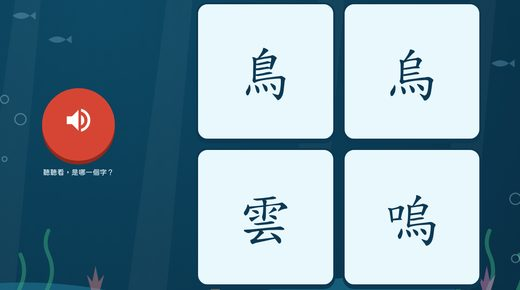
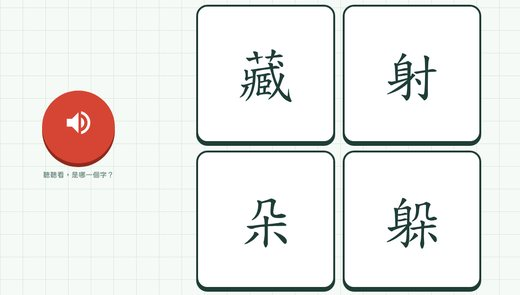
目標卡片的截圖改用不套主題的畫面
Claude-Session: https://claude.ai/code/session_01GKhFpU79AWw52YeMv5qypS

diff --git a/tools/literacy/index.html b/tools/literacy/index.html
@@ -15,11 +15,11 @@
 <link rel="preconnect" href="https://fonts.gstatic.com" crossorigin>
 <link rel="stylesheet" href="https://fonts.googleapis.com/css2?family=Huninn&display=swap">
 <!-- 標準楷書：全字庫正楷體（見 docs/scripts/make_kai.py）；不用霞鶩文楷，因為它的字形和教育部標準楷書不同 -->
-<link rel="stylesheet" href="../../shared/fonts/tw-kai.css?v=2026-10-26z12">
+<link rel="stylesheet" href="../../shared/fonts/tw-kai.css?v=2026-10-26z13">
 <!-- 平台共用的主題外觀、頭像、貼紙樣式 -->
-<link rel="stylesheet" href="../../shared/themes.css?v=2026-10-26z12">
+<link rel="stylesheet" href="../../shared/themes.css?v=2026-10-26z13">
 <!-- 注音字型（3-4）：語詞、句子提示和練習的選項加注音；畫面用到注音時才會下載 -->
-<link rel="stylesheet" href="../../shared/fonts/bpmf-kai.css?v=2026-10-26z12">
+<link rel="stylesheet" href="../../shared/fonts/bpmf-kai.css?v=2026-10-26z13">
 <style>
 /* 版面：沿用生字賓果的生字簿方格紙。
    設定畫面：左邊六個步驟，右邊固定的「本次評量」摘要；評量設定、教學日期、學生名單、作答紀錄放在彈出面板。
@@ -1125,32 +1125,32 @@ table.rec th,table.rec td{border-bottom:1px solid var(--grid);padding:6px 8px;te
 <!-- 每個檔案後面的 ?v=日期 是版本號：改了任何 .js、.css 檔，就把這頁所有的 ?v= 一起改成當天日期（用「全部取代」；同一天改第二次就在日期後面加 b、c）。
      這樣老師的瀏覽器才會下載新檔案，不會新網頁配到舊程式（例如按「下一步」沒反應）。 -->
 <!-- 生字資料：平台共用的教材資料（shared/lessons.js） -->
-<script src="../../shared/lessons.js?v=2026-10-26z12"></script>
+<script src="../../shared/lessons.js?v=2026-10-26z13"></script>
 <!-- 注音讀音表（shared/bpmf.js）：語詞、例句裡的破音字該念哪一個音 -->
-<script src="../../shared/bpmf.js?v=2026-10-26z12"></script>
+<script src="../../shared/bpmf.js?v=2026-10-26z13"></script>
 <!-- 字頻：教育部字頻總表（shared/freq.js），練習的常用字、字頻優先、老師專區高字頻生字會用到 -->
-<script src="../../shared/freq.js?v=2026-10-26z12"></script>
+<script src="../../shared/freq.js?v=2026-10-26z13"></script>
 <!-- 自動部件拆解（shared/parts.js）：部件提示在 lessons.js 的 PARTS 沒有這個字時才用 -->
-<script src="../../shared/parts.js?v=2026-10-26z12"></script>
+<script src="../../shared/parts.js?v=2026-10-26z13"></script>
 <!-- 共用小工具（課本排序與名稱、語詞、部件查詢、按匯出時才載入 Excel 元件），識字評量與備課分析共用 -->
-<script src="../../shared/common.js?v=2026-10-26z12"></script>
+<script src="../../shared/common.js?v=2026-10-26z13"></script>
 <!-- 平台共用：主題與貼紙、每位學生的收藏與頭像 -->
-<script src="../../shared/sticker-art.js?v=2026-10-26z12"></script>
-<script src="../../shared/themes.js?v=2026-10-26z12"></script>
-<script src="../../shared/rewards.js?v=2026-10-26z12"></script>
+<script src="../../shared/sticker-art.js?v=2026-10-26z13"></script>
+<script src="../../shared/themes.js?v=2026-10-26z13"></script>
+<script src="../../shared/rewards.js?v=2026-10-26z13"></script>
 <!-- 程式本體：分成八個檔案，順序不能換（說明見 app.js 開頭） -->
-<script src="data.js?v=2026-10-26z12"></script>
-<script src="setup.js?v=2026-10-26z12"></script>
-<script src="records.js?v=2026-10-26z12"></script>
-<script src="wordsets.js?v=2026-10-26z12"></script>
-<script src="play.js?v=2026-10-26z12"></script>
-<script src="collect.js?v=2026-10-26z12"></script>
-<script src="gacha.js?v=2026-10-26z12"></script>
-<script src="scenes.js?v=2026-10-26z12"></script>
+<script src="data.js?v=2026-10-26z13"></script>
+<script src="setup.js?v=2026-10-26z13"></script>
+<script src="records.js?v=2026-10-26z13"></script>
+<script src="wordsets.js?v=2026-10-26z13"></script>
+<script src="play.js?v=2026-10-26z13"></script>
+<script src="collect.js?v=2026-10-26z13"></script>
+<script src="gacha.js?v=2026-10-26z13"></script>
+<script src="scenes.js?v=2026-10-26z13"></script>
 <!-- 老師專區、進階分析：平板作答（網址 #t）用不到，不下載，省約 30 KB（2026-10-24 R4a）。
      用 document.write 是為了讓電腦上的載入順序和以前完全一樣 -->
-<script>if(!/^#t/.test(location.hash)) document.write('<script src="teacher.js?v=2026-10-26z12"><\/script><script src="pivot.js?v=2026-10-26z12"><\/script>');</script>
-<script src="tablet.js?v=2026-10-26z12"></script>
-<script src="app.js?v=2026-10-26z12"></script>
+<script>if(!/^#t/.test(location.hash)) document.write('<script src="teacher.js?v=2026-10-26z13"><\/script><script src="pivot.js?v=2026-10-26z13"><\/script>');</script>
+<script src="tablet.js?v=2026-10-26z13"></script>
+<script src="app.js?v=2026-10-26z13"></script>
 </body>
 </html>

diff --git a/tools/prep/index.html b/tools/prep/index.html
@@ -9,7 +9,7 @@
 <link rel="preconnect" href="https://fonts.gstatic.com" crossorigin>
 <link rel="stylesheet" href="https://fonts.googleapis.com/css2?family=Huninn&display=swap">
 <!-- 標準楷書：全字庫正楷體（見 docs/scripts/make_kai.py）；不用霞鶩文楷，因為它的字形和教育部標準楷書不同 -->
-<link rel="stylesheet" href="../../shared/fonts/tw-kai.css?v=2026-10-26z12">
+<link rel="stylesheet" href="../../shared/fonts/tw-kai.css?v=2026-10-26z13">
 <style>
 /* 版面：沿用識字評量的生字簿方格紙。
    上面選範圍與分析方式，下面是三個重點數字和結果表（部件排行／生字一覽／字頻）。 */
@@ -143,11 +143,11 @@ tr.auto td{background:var(--amber-bg)}
 </div>
 
 <!-- ?v=日期 是版本號：改了任何 .js 檔，就把這頁所有的 ?v= 一起改成當天日期（同一天改第二次加 b、c），老師的瀏覽器才會下載新檔案 -->
-<script src="../../shared/lessons.js?v=2026-10-26z12"></script>
-<script src="../../shared/parts.js?v=2026-10-26z12"></script>
-<script src="../../shared/freq.js?v=2026-10-26z12"></script>
+<script src="../../shared/lessons.js?v=2026-10-26z13"></script>
+<script src="../../shared/parts.js?v=2026-10-26z13"></script>
+<script src="../../shared/freq.js?v=2026-10-26z13"></script>
 <!-- 共用小工具（課本排序與名稱、語詞、部件查詢、按匯出時才載入 Excel 元件），識字評量與備課分析共用 -->
-<script src="../../shared/common.js?v=2026-10-26z12"></script>
-<script src="prep.js?v=2026-10-26z12"></script>
+<script src="../../shared/common.js?v=2026-10-26z13"></script>
+<script src="prep.js?v=2026-10-26z13"></script>
 </body>
 </html>

diff --git a/docs/scripts/check.js b/docs/scripts/check.js
@@ -164,7 +164,7 @@ try {
 
 /* ---------- 4. 學生資料 ---------- */
 const ALLOW_DATA = ['docs/materials/material-review.xlsx', 'docs/materials/parts-table.xlsx'];   /* 教材資料，沒有學生資料 */
-const ALLOW_IMAGES = ['tools/literacy/img/goal-3.jpg', 'tools/literacy/img/goal-4-1.jpg'];   /* 選評量目標畫面的遊戲截圖（2026-10-25 維護者要求）；用假資料截的，已裁掉學生代號和頭像 */
+const ALLOW_IMAGES = ['tools/literacy/img/goal-3.jpg', 'tools/literacy/img/goal-4-1.jpg'];   /* 選評量目標畫面的遊戲截圖（2026-10-25 維護者要求）；用假資料截的、不套主題背景，已裁掉學生代號和頭像 */
 for (const f of files) {
   const ext = path.extname(f).toLowerCase();
   if (ALLOW_IMAGES.includes(f)) continue;

diff --git a/about.html b/about.html
@@ -9,7 +9,7 @@
 <link rel="preconnect" href="https://fonts.gstatic.com" crossorigin>
 <link rel="stylesheet" href="https://fonts.googleapis.com/css2?family=Huninn&display=swap">
 <!-- 標準楷書：全字庫正楷體（見 docs/scripts/make_kai.py）；不用霞鶩文楷，因為它的字形和教育部標準楷書不同 -->
-<link rel="stylesheet" href="shared/fonts/tw-kai.css?v=2026-10-26z12">
+<link rel="stylesheet" href="shared/fonts/tw-kai.css?v=2026-10-26z13">
 <style>
 /* 關於我們：平台介紹、資料來源與出處。內容對應 docs/materials/data-sources.md「資料來源與授權清單」
    和規格書「資料來源、授權與隱私」表一；加入新的外部資料時，這一頁要一起改。

diff --git a/privacy.html b/privacy.html
@@ -9,7 +9,7 @@
 <link rel="preconnect" href="https://fonts.gstatic.com" crossorigin>
 <link rel="stylesheet" href="https://fonts.googleapis.com/css2?family=Huninn&display=swap">
 <!-- 標準楷書：全字庫正楷體（見 docs/scripts/make_kai.py）；不用霞鶩文楷，因為它的字形和教育部標準楷書不同 -->
-<link rel="stylesheet" href="shared/fonts/tw-kai.css?v=2026-10-26z12">
+<link rel="stylesheet" href="shared/fonts/tw-kai.css?v=2026-10-26z13">
 <style>
 /* 資料與隱私說明：給學校、家長與使用的老師看。內容對應規格書「資料來源、授權與隱私」表二。
    功能改變（新增會存學生資料的功能、新的對外連線）時，這一頁要一起改。 */

diff --git a/index.html b/index.html
@@ -9,7 +9,7 @@
 <link rel="preconnect" href="https://fonts.gstatic.com" crossorigin>
 <link rel="stylesheet" href="https://fonts.googleapis.com/css2?family=Huninn&display=swap">
 <!-- 標準楷書：全字庫正楷體（見 docs/scripts/make_kai.py）；不用霞鶩文楷，因為它的字形和教育部標準楷書不同 -->
-<link rel="stylesheet" href="shared/fonts/tw-kai.css?v=2026-10-26z12">
+<link rel="stylesheet" href="shared/fonts/tw-kai.css?v=2026-10-26z13">
 <style>
 /* 平台首頁：配色沿用原本生字賓果的方格紙風格 */
 :root{

diff --git a/docs/changelog/changes/2026-10-25-goal-cards-simple.md b/docs/changelog/changes/2026-10-25-goal-cards-simple.md
@@ -2,5 +2,5 @@
 
 - 日期：2026-10-25
 - 動到哪裡：識字評量（`data.js` 的 `GOALS`、`setup.js` 的 `renderGoals`、`tablet.js`、`index.html`）、`docs/design/literacy-design.md`
-- 改了什麼：設定第 1 步的目標卡片只留名稱、一句話描述和遊戲畫面截圖（`tools/literacy/img/goal-3.jpg`、`goal-4-1.jpg`，用假資料截、已裁掉學生代號和頭像；還沒開放的目標沒有截圖）；描述保留原本的「（音 ↔ 義）（形 ↔ 義）」，聽音選字加「（形 ↔ 音）」，「同詞易混字」改成「同詞字」；`docs/scripts/check.js` 加 `ALLOW_IMAGES`（原本不准 jpg 進 repo，這兩張例外）；拿掉「建議第 N 步」「目標 N」、資料狀態標籤、「建議依 1→4 順序」和「為什麼建議這個順序」；設定摘要、平板畫面的「目標 3 形音辨識」改成只寫名稱；「形音辨識」改名「聽音選字」。紀錄裡的 `goal` 值（1、2、3、4-1、4-2）不變；Excel（作答紀錄匯出、老師專區匯出）、老師專區的目標篩選、進階分析的「評量目標」也改寫目標名稱（新增 `data.js` 的 `goalName`，進階分析的順序照目標順序）
+- 改了什麼：設定第 1 步的目標卡片只留名稱、一句話描述和遊戲畫面截圖（`tools/literacy/img/goal-3.jpg`、`goal-4-1.jpg`，用假資料截、不套主題背景、已裁掉學生代號和頭像；還沒開放的目標沒有截圖）；描述保留原本的「（音 ↔ 義）（形 ↔ 義）」，聽音選字加「（形 ↔ 音）」，「同詞易混字」改成「同詞字」；`docs/scripts/check.js` 加 `ALLOW_IMAGES`（原本不准 jpg 進 repo，這兩張例外）；拿掉「建議第 N 步」「目標 N」、資料狀態標籤、「建議依 1→4 順序」和「為什麼建議這個順序」；設定摘要、平板畫面的「目標 3 形音辨識」改成只寫名稱；「形音辨識」改名「聽音選字」。紀錄裡的 `goal` 值（1、2、3、4-1、4-2）不變；Excel（作答紀錄匯出、老師專區匯出）、老師專區的目標篩選、進階分析的「評量目標」也改寫目標名稱（新增 `data.js` 的 `goalName`，進階分析的順序照目標順序）
 - 想法或決定的變化：建議順序的專業依據不夠，先拿掉，之後有要做再加（原文搬到 `docs/history/history-2026-10-25-later.md`）
